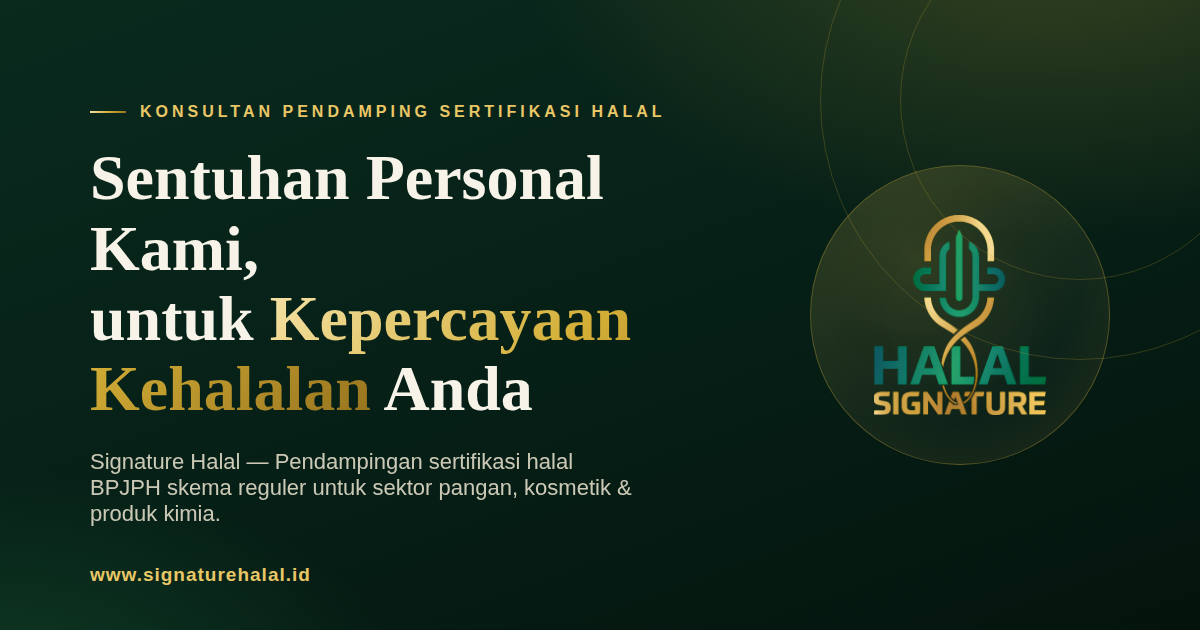
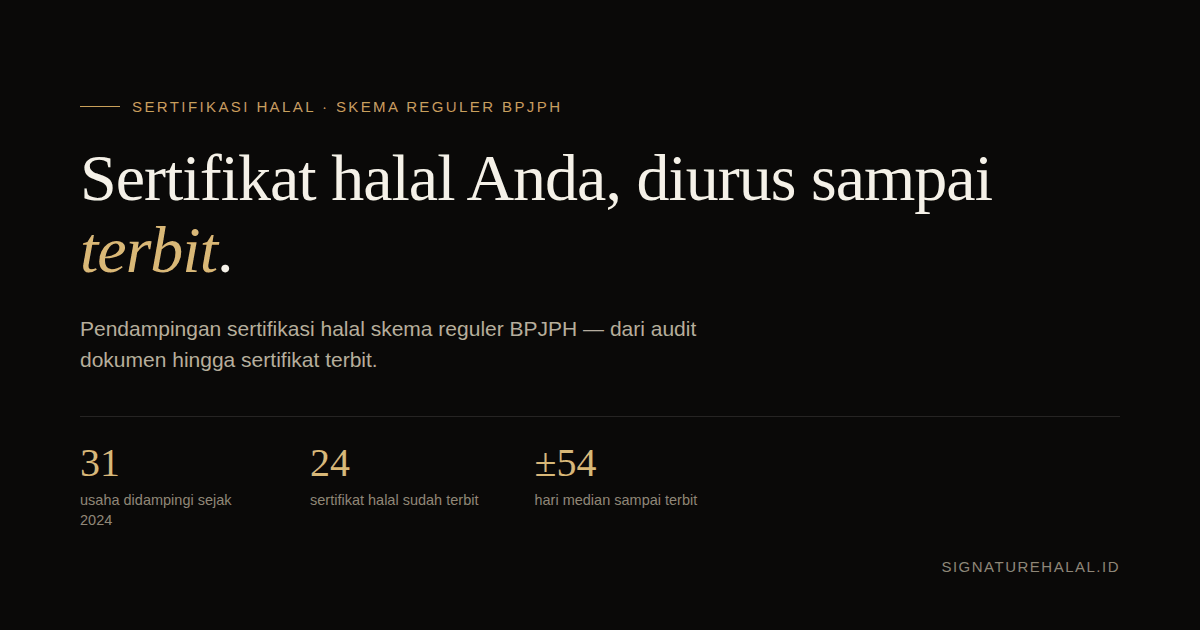
Fix deployment, sharing and touch-target issues
The Open Graph image still carried the previous green branding and an old
tagline, so shared links contradicted the site; regenerate it from the
current design. Stale-asset problems on deploy prompted version query
strings on the stylesheet and script. WhatsApp links navigated away in the
same tab, losing the visitor, and the header and maps buttons fell below
the 44px touch target the handoff asks for on mobile. Also pin logo
dimensions to avoid layout shift, keep the embedded map out of search
results, and honour prefers-reduced-motion.

Claude-Session: https://claude.ai/code/session_01LmfcpVafh4pX2E35DFAP3n

diff --git a/index.html b/index.html
@@ -7,6 +7,7 @@
 <meta name="description" content="PT Signature Halal Indonesia mendampingi sertifikasi halal skema reguler BPJPH — dari audit dokumen hingga sertifikat terbit. 31 usaha didampingi, 24 sertifikat terbit.">
 <link rel="canonical" href="https://www.signaturehalal.id/">
 <link rel="icon" href="assets/logo.svg" type="image/svg+xml">
+<meta name="theme-color" content="#0a0908">
 
 <meta property="og:type" content="website">
 <meta property="og:site_name" content="Signature Halal">
@@ -27,7 +28,7 @@
 <link rel="preconnect" href="https://fonts.gstatic.com" crossorigin>
 <link href="https://fonts.googleapis.com/css2?family=Playfair+Display:ital,wght@0,400;0,500;0,600;1,400&family=Poppins:wght@400;500;600;700&display=swap" rel="stylesheet">
 
-<link rel="stylesheet" href="css/style.css">
+<link rel="stylesheet" href="css/style.css?v=2">
 
 <script type="application/ld+json">
 {
@@ -57,7 +58,7 @@
 
 <header class="site-header">
   <a href="#top" class="brand">
-    <img src="assets/logo-horizontal.png" alt="Signature Halal">
+    <img src="assets/logo-horizontal.png" alt="Signature Halal" width="78" height="34">
     <span class="hdr-tag">PT SIGNATURE<br>HALAL INDONESIA</span>
   </a>
   <nav class="site-nav">
@@ -74,7 +75,7 @@
       <a href="#proses">Proses</a>
       <a href="#kontak">Kontak</a>
     </span>
-    <a href="https://wa.me/6281343640048" class="btn btn-primary">Chat WhatsApp <span class="btn-num">0813-4364-0048</span></a>
+    <a href="https://wa.me/6281343640048" target="_blank" rel="noopener" class="btn btn-primary">Chat WhatsApp <span class="btn-num">0813-4364-0048</span></a>
   </nav>
 </header>
 
@@ -87,7 +88,7 @@
     <h1>Sertifikat halal Anda, diurus sampai <em>terbit</em>.</h1>
     <p class="lead">Pendampingan sertifikasi halal skema reguler BPJPH — dari audit dokumen hingga sertifikat terbit. Untuk dapur produksi massal, rumah potong unggas, industri pangan, kosmetik, dan bahan kimia.</p>
     <div class="btn-row">
-      <a href="https://wa.me/6281343640048" class="btn btn-primary btn-lg">Chat WhatsApp sekarang</a>
+      <a href="https://wa.me/6281343640048" target="_blank" rel="noopener" class="btn btn-primary btn-lg">Chat WhatsApp sekarang</a>
       <a href="#kontak" class="btn btn-secondary btn-lg">Cek kewajiban usaha saya</a>
     </div>
     <div class="hero-stats">
@@ -345,7 +346,7 @@
       <h2>Konsultasikan kebutuhan sertifikasi halal usaha Anda</h2>
       <p class="body body-dark lead-body">Cara tercepat adalah WhatsApp — biasanya kami balas di hari yang sama. Sesi konsultasi awal tidak dikenakan biaya.</p>
       <div class="btn-row">
-        <a href="https://wa.me/6281343640048" class="btn btn-invert btn-lg">Chat WhatsApp 0813-4364-0048</a>
+        <a href="https://wa.me/6281343640048" target="_blank" rel="noopener" class="btn btn-invert btn-lg">Chat WhatsApp 0813-4364-0048</a>
         <a href="mailto:signaturehalal@gmail.com" class="btn btn-ghost btn-lg">Kirim email</a>
       </div>
       <div class="meta-grid">
@@ -418,12 +419,12 @@
 </section>
 
 <footer class="site-footer">
-  <img src="assets/logo-horizontal.png" alt="Signature Halal">
+  <img src="assets/logo-horizontal.png" alt="Signature Halal" width="96" height="42" loading="lazy">
   <span>&copy; 2026 PT Signature Halal Indonesia. Sentuhan personal kami, untuk kepercayaan kehalalan Anda.</span>
 </footer>
 
-<a href="https://wa.me/6281343640048" class="wa-pill">Chat WhatsApp</a>
+<a href="https://wa.me/6281343640048" target="_blank" rel="noopener" class="wa-pill">Chat WhatsApp</a>
 
-<script src="js/main.js"></script>
+<script src="js/main.js?v=2"></script>
 </body>
 </html>

diff --git a/css/style.css b/css/style.css
@@ -42,6 +42,10 @@ html {
   scroll-behavior: smooth;
 }
 
+@media (prefers-reduced-motion: reduce) {
+  html { scroll-behavior: auto; }
+}
+
 body {
   margin: 0;
   background: var(--bg);
@@ -762,4 +766,10 @@ img { max-width: 100%; }
   .nav-mini { display: flex; }
   .hdr-tag { display: none; }
   .hero { padding-top: 28px; }
+
+  /* Touch targets: the handoff asks for >=44px on mobile, which the desktop
+     paddings do not reach. Desktop keeps the specified values. */
+  .btn-primary { padding: 16px; }
+  .btn-sm { padding: 15px 18px; }
+  .nav-mini a { padding: 8px 0; }
 }

diff --git a/map-kantor.html b/map-kantor.html
@@ -4,6 +4,8 @@
 <meta charset="utf-8">
 <meta name="viewport" content="width=device-width, initial-scale=1.0">
 <title>Lokasi kantor — Signature Halal</title>
+<!-- Embedded in the contact section; not a page in its own right. -->
+<meta name="robots" content="noindex">
 <style>
 html,body{margin:0;height:100%;background:#1a1815;font-family:'Poppins',system-ui,sans-serif}
 #map{height:100%;width:100%}
